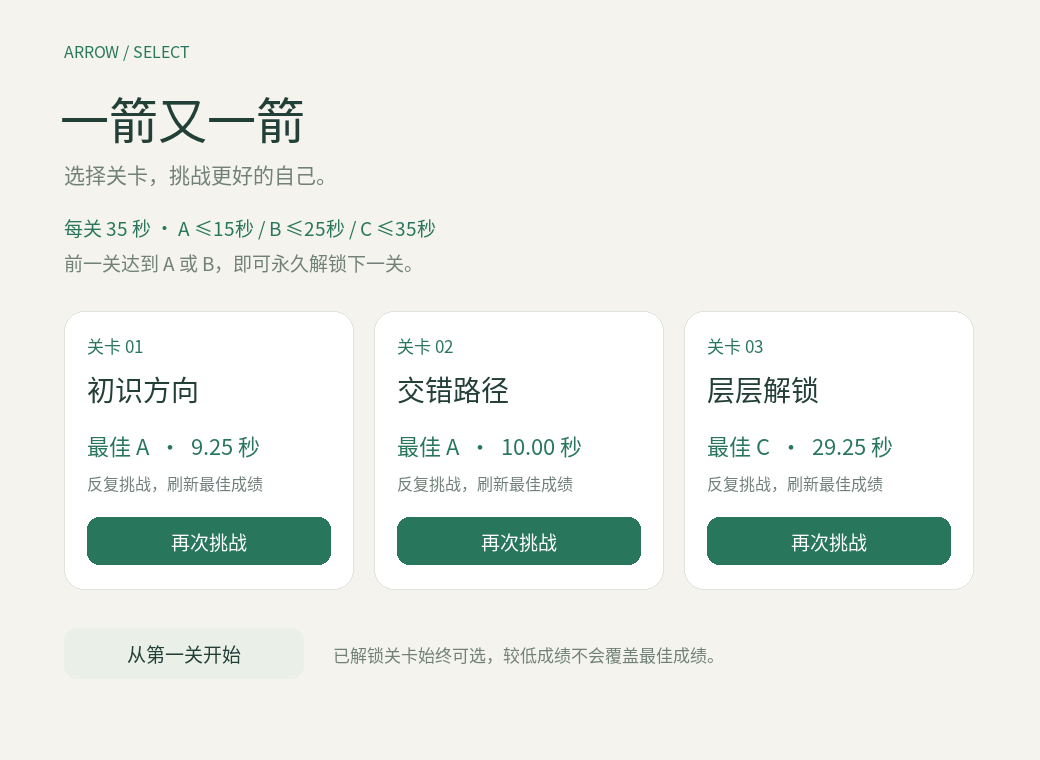
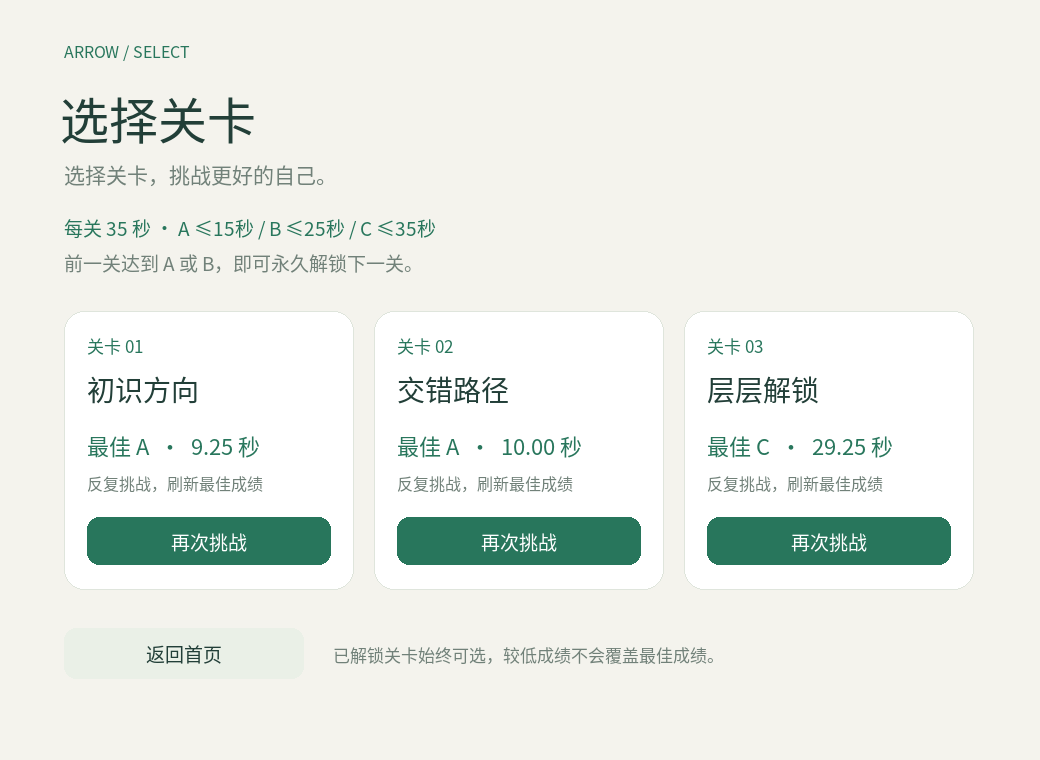
fix: separate home screen from level selection

Changed region(s): [[0.0615, 0.1211, 0.3077, 0.2118], [0.1231, 0.8474, 0.2462, 0.8776]]

diff --git a/main.py b/main.py
@@ -93,8 +93,31 @@ class App:
         self.notice = '点击箭头，让通路逐渐打开。'
 
     def draw_menu(self):
+        self.text('ARROW / HOME', (64, 44), 17, GREEN)
+        self.text('观察方向，找到出口。', (64, 152), 22, MUTED)
+        self.text('一箭又一箭', (60, 194), 64)
+        self.text('一场关于顺序的小小解谜', (64, 293), 24, GREEN)
+        for i, line in enumerate(['点击前方畅通的箭头，让它飞出棋盘。',
+                                  '每关限时 35 秒，拥有 3 次失误机会。',
+                                  '获得 A 或 B，解锁下一关。']):
+            self.text(line, (66, 365+i*40), 20, MUTED)
+        self.text('A ≤15秒   /   B ≤25秒   /   C ≤35秒', (66, 489), 18, GREEN)
+        self.button('start', '开始游戏', (64, 546, 218, 58), True)
+        self.button('select', '选择关卡', (302, 546, 218, 58))
+        self.text('从第一关开始，或选择已解锁关卡刷新成绩。', (65, 630), 17, MUTED)
+        self.panel((626, 159, 342, 397), '#E6EBDF', radius=32)
+        demo = [('U',0,0), ('R',0,2), ('L',1,0), ('D',1,1), ('U',1,2), ('R',2,1), ('D',2,2)]
+        for d,r,c in demo:
+            x,y = 657+c*98, 211+r*98
+            self.panel((x,y,84,84), 'white', radius=17)
+            self.arrow((x+42,y+42), d, COLORS[d], 36, 6)
+        self.text('每一次移除，都打开新的可能。', (796,601), 17, MUTED, True)
+        if self.game.progress.message:
+            self.text(self.game.progress.message, (64, 706), 17, '#B95D43')
+
+    def draw_selection(self):
         self.text('ARROW / SELECT', (64, 39), 16, GREEN)
-        self.text('一箭又一箭', (60, 82), 49)
+        self.text('选择关卡', (60, 82), 49)
         self.text('选择关卡，挑战更好的自己。', (64, 158), 21, MUTED)
         self.text('每关 35 秒 · A ≤15秒 / B ≤25秒 / C ≤35秒', (64, 213), 19, GREEN)
         self.text('前一关达到 A 或 B，即可永久解锁下一关。', (64, 248), 19, MUTED)
@@ -117,7 +140,7 @@ class App:
                 self.text(f'需要第 {i} 关获得 A 或 B', (x+23, 471), 16, MUTED)
                 self.panel((x+23, 517, 244, 48), '#DADFD5', radius=12)
                 self.text('未解锁', (x+145, 541), 19, MUTED, True)
-        self.button('start', '从第一关开始', (64, 628, 240, 51))
+        self.button('menu', '返回首页', (64, 628, 240, 51))
         self.text('已解锁关卡始终可选，较低成绩不会覆盖最佳成绩。', (333, 642), 17, MUTED)
         if self.game.progress.message:
             self.text(self.game.progress.message, (64, 706), 17, '#B95D43')
@@ -211,7 +234,7 @@ class App:
         label='下一关' if state=='LEVEL_CLEAR' and self.game.grade in ('A','B') else '再次挑战' if won else '重新挑战'
         self.button('continue',label,(305,432,138,55),True)
         self.button('restart','重试本关',(451,432,138,55))
-        self.button('menu','首页选关',(597,432,138,55))
+        self.button('select','选择关卡',(597,432,138,55))
         if self.game.progress.message:
             self.text(self.game.progress.message, (520,517), 15, '#B95D43', True)
 
@@ -219,6 +242,7 @@ class App:
         self.screen.fill(BG)
         self.buttons.clear()
         if self.game.state=='MENU': self.draw_menu()
+        elif self.game.state=='SELECT': self.draw_selection()
         elif self.game.state=='PLAYING': self.draw_playing()
         else: self.draw_result()
         pygame.display.flip()
@@ -226,6 +250,9 @@ class App:
     def action(self, key):
         g=self.game
         if key=='start': self.start()
+        elif key=='select':
+            g.menu()
+            g.state='SELECT'
         elif key.startswith('level_'):
             self.start(int(key.split('_')[1]))
         elif key=='menu': g.menu()

diff --git a/tests/test_ui.py b/tests/test_ui.py
@@ -80,10 +80,13 @@ class UITests(unittest.TestCase):
         self.assertIn('continue',self.app.buttons)
 
     def test_home_selection_and_C_retry(self):
+        self.assertIn('select',self.app.buttons)
+        self.assertNotIn('level_0',self.app.buttons)
+        self.button('select')
         self.assertIn('level_0',self.app.buttons)
         self.assertNotIn('level_1',self.app.buttons)
         self.app.action('level_1')
-        self.assertEqual(self.app.game.state,'MENU')
+        self.assertEqual(self.app.game.state,'SELECT')
         self.button('level_0')
         self.app.game.update(26)
         for r,c in solve(self.app.game.board):
@@ -95,12 +98,27 @@ class UITests(unittest.TestCase):
         for r,c in solve(self.app.game.board):
             self.click(self.app.cell_center(r,c))
             self.app.game.update(.25);self.app.draw()
-        self.button('menu')
+        self.button('select')
         self.assertIn('level_1',self.app.buttons)
         self.assertNotIn('level_2',self.app.buttons)
         self.button('level_1')
         self.assertEqual(self.app.game.level_index,1)
-        self.button('menu');self.button('level_0')
+        self.button('menu');self.button('select');self.button('level_0')
         self.assertEqual(self.app.game.level_index,0)
+
+    def test_home_selection_back_and_timer_stopped(self):
+        self.assertEqual(self.app.game.state,'MENU')
+        self.button('select')
+        self.assertEqual(self.app.game.state,'SELECT')
+        self.app.game.update(40)
+        self.assertEqual(self.app.game.elapsed,0)
+        self.button('menu')
+        self.assertEqual(self.app.game.state,'MENU')
+        self.assertIn('start',self.app.buttons)
+        self.assertNotIn('level_0',self.app.buttons)
+        self.button('select')
+        self.app.handle_event(pygame.event.Event(pygame.KEYDOWN,key=pygame.K_ESCAPE))
+        self.app.draw()
+        self.assertEqual(self.app.game.state,'MENU')
 
 if __name__=='__main__': unittest.main()

diff --git a/docs/capture_demo.py b/docs/capture_demo.py
@@ -44,7 +44,7 @@ capture('07_all_clear.png')
 app.start(1)
 app.game.update(35.01)
 capture('08_timeout.png')
-app.game.menu()
+app.action('select')
 capture('09_selection.png')
 pygame.quit()
 print('Saved 9 screenshots')

diff --git a/README.md b/README.md
@@ -46,13 +46,13 @@ python3.12 -m venv .venv
 
 ## 关卡选择与成绩保存
 
-首页展示全部三关，第一关默认开放，前一关曾取得 A 或 B 后永久解锁下一关。未解锁关卡不可点击；即使直接调用开始关卡的方法，也会检查解锁条件。
+首页保留“开始游戏”和“选择关卡”按钮。点击“选择关卡”跳转到独立选关页面，选关页面展示全部三关，第一关默认开放，前一关曾取得 A 或 B 后永久解锁下一关。未解锁关卡不可点击；即使直接调用开始关卡的方法，也会检查解锁条件。
 
-每关记录成功通关的最短时间，并据此显示最佳评级。更慢成绩、C 评级或失败都不会覆盖原有更好记录，也不会重新锁定已经解锁的关卡。若本次拿到 C，结果页只能重试或回首页；之前解锁的后续关卡仍可从首页选择。
+每关记录成功通关的最短时间，并据此显示最佳评级。更慢成绩、C 评级或失败都不会覆盖原有更好记录，也不会重新锁定已经解锁的关卡。若本次拿到 C，结果页只能重试或回首页；之前解锁的后续关卡仍可从首页的“选择关卡”进入后选择。
 
 进度存放在用户主目录的 `.arrow_by_arrow/progress.json`（Windows 通常是 `C:\Users\你的用户名\.arrow_by_arrow\progress.json`），关闭游戏后保留；更新游戏文件不影响成绩。存档不可读时回到初始进度并显示提示；无法写入时保留本次会话内成绩并提示。测试与截图使用独立内存进度，不写玩家存档。
 
-![首页选关与最佳成绩](docs/09_selection.png)
+![独立选关页与最佳成绩](docs/09_selection.png)
 
 ## 操作与规则
 
@@ -78,7 +78,7 @@ python3.12 -m venv .venv
 | `levels.py` | 三个固定关卡 |
 | `tests/test_logic.py` | 11 项核心规则测试 |
 | `tests/test_timer.py` | 8 项计时、评级边界和超时测试 |
-| `tests/test_ui.py` | 4 项界面事件流程测试 |
+| `tests/test_ui.py` | 5 项界面事件流程测试 |
 | `assets/` | 中文字体及字体许可证 |
 | `docs/` | 截图、开发记录、测试报告、PSP 表与通关顺序 |
 
@@ -103,7 +103,7 @@ python3.12 -m venv .venv
 python -m unittest discover -s tests -v
 ```
 
-30 项测试已在 Linux / Python 3.12.14 / pygame-ce 2.5.8 环境通过。界面测试使用 SDL dummy 驱动和模拟鼠标事件，可在无桌面环境运行；覆盖三关完整通关、失败重开、重复点击和中途重开。
+31 项测试已在 Linux / Python 3.12.14 / pygame-ce 2.5.8 环境通过。界面测试使用 SDL dummy 驱动和模拟鼠标事件，可在无桌面环境运行；覆盖三关完整通关、失败重开、重复点击和中途重开。
 
 原始输出见 `docs/test_output.txt`。自动化测试不替代本人试玩：Windows 桌面实机运行、主观动画流畅度以及每关人工试玩，需下载后确认。
 

diff --git a/docs/TEST_REPORT.md b/docs/TEST_REPORT.md
@@ -2,7 +2,7 @@
 
 环境：Linux、Python 3.12.14、pygame-ce 2.5.8；界面用 SDL dummy 驱动进行无窗口渲染和模拟鼠标事件测试。
 
-结果：30 项 unittest 测试通过。原始输出见 `test_output.txt`。
+结果：31 项 unittest 测试通过。原始输出见 `test_output.txt`。
 
 | 编号 | 内容 | 预期 | 本次实际结果 |
 | --- | --- | --- | --- |
@@ -40,3 +40,7 @@
 ## 关卡解锁与首页选关更新
 
 新增 7 项进度测试与 1 项 UI 流程测试：初始锁定、C 无法进下一关、恰好 25 秒的 B 解锁、顺序解锁第三关、重复挑战保留更优成绩和解锁状态、失败不覆盖成绩、文件保存/重新加载、损坏存档回退、写入失败提示、禁止写入未解锁关卡成绩、首页锁定按钮与选关事件。全部 30 项通过。选关首页的初始和已解锁画面均已检查。
+
+## 独立首页修正
+
+根据用户澄清，将首页与选关页分为 MENU / SELECT 两个状态；首页“开始游戏”进入第一关，“选择关卡”进入选关页，选关页按钮或 Esc 可返回首页。新增导航与选关页不计时验证；现共 31 项测试通过。已检查新版首页截图。
